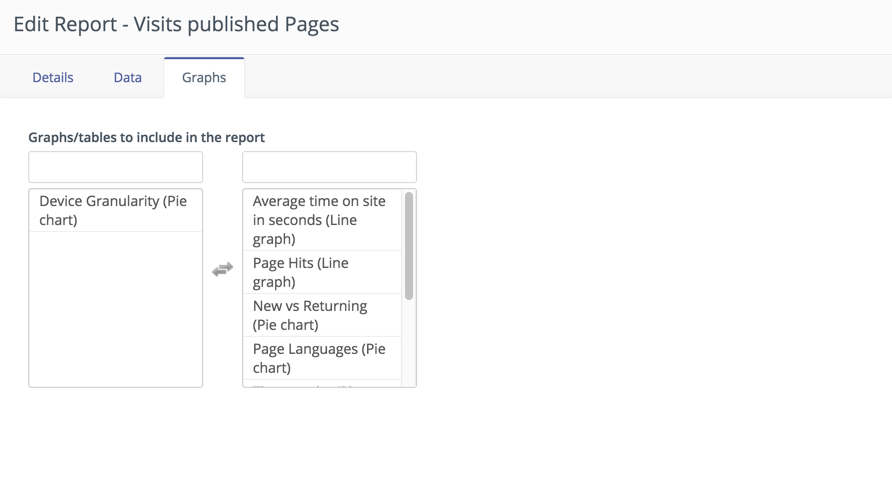
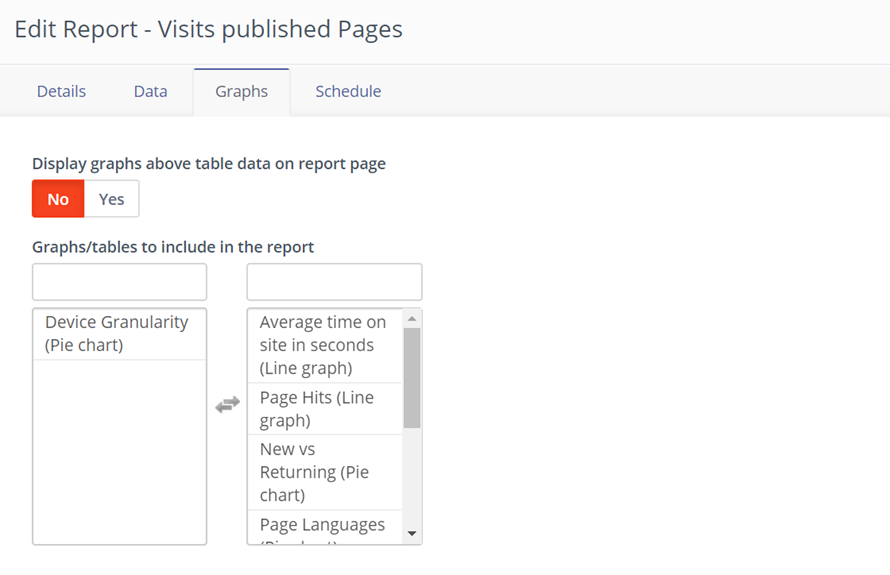
Updated Reports page to add info about scheduled sending of reports #65

diff --git a/pages/15.Reports/docs.en.md b/pages/15.Reports/docs.en.md
@@ -16,14 +16,14 @@ Highly customizable reports can be generated through Mautic's Report menu.
 ## Data Sources
 
 Choose the data source appropriate to the report you want. Each data source has a different set of available columns, filters and graphs.
- 
+
 ![](data-source.png)
 
 ## Configuration
 
 Each report can be customized to include the columns of choice. Filter data based on set criteria and/or set a specific order for the data.
 In addition you can also group by and select different function operators to calculate fields. Note that when you select functions operators a totals row will be added to the report. This totals row will not be exported when selecting to export a report.
- 
+
 ![](config.png)
 
 ## Graphs
@@ -34,6 +34,16 @@ Some reports have graphs available. Select the graph desired from the left list 
 
 ## Dashboard Widget
 
-Each graph of each report is made available as a widget on the dashboard allowing complete customization of the dashboard. 
- 
+Each graph of each report is made available as a widget on the dashboard allowing complete customization of the dashboard.
+
 ![](widget.png)
+
+## Schedule reports
+
+Enable or disable sending reports via emails by using the toggle switch. You can schedule emails to send reports to one or more email address. In the To field, enter a comma-separated list of email addresses and set the frequency of sending reports by choosing day, week, or month from the drop-down list. To be able to schedule emails to send reports, run the command:
+
+```
+php /path/to/mautic/app/console mautic:reports:scheduler [--report=ID]
+```
+
+![](schedule.png)
